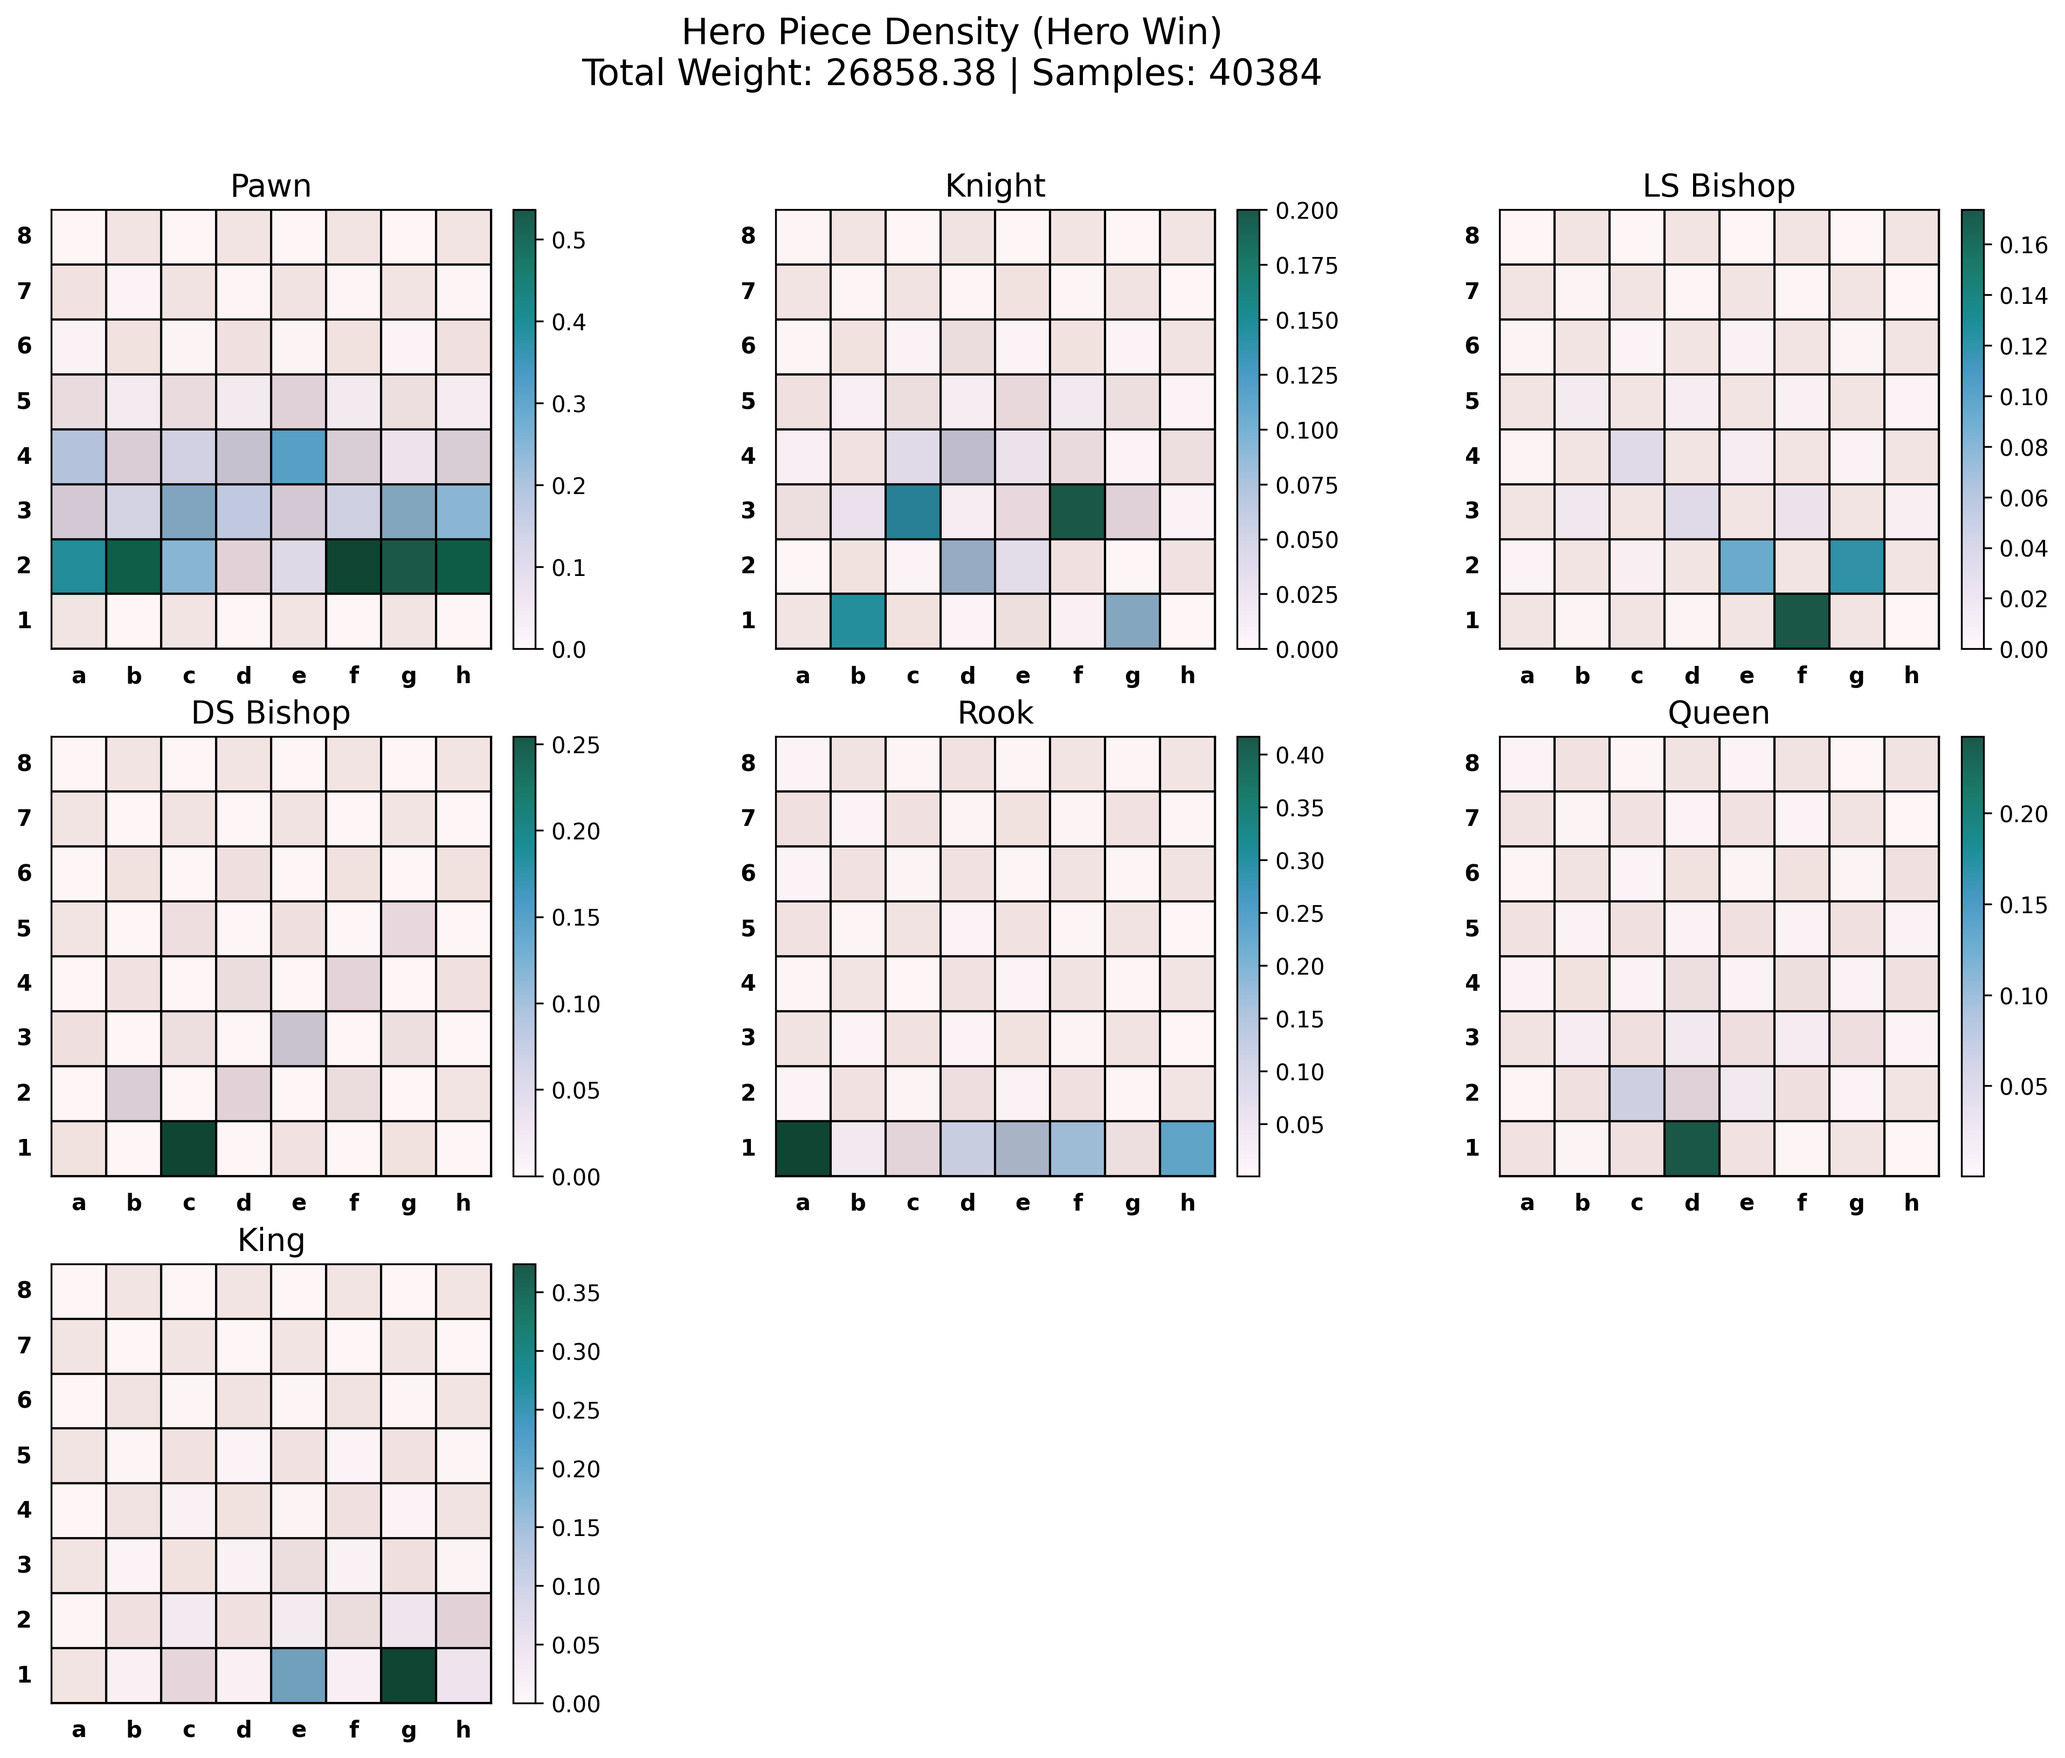
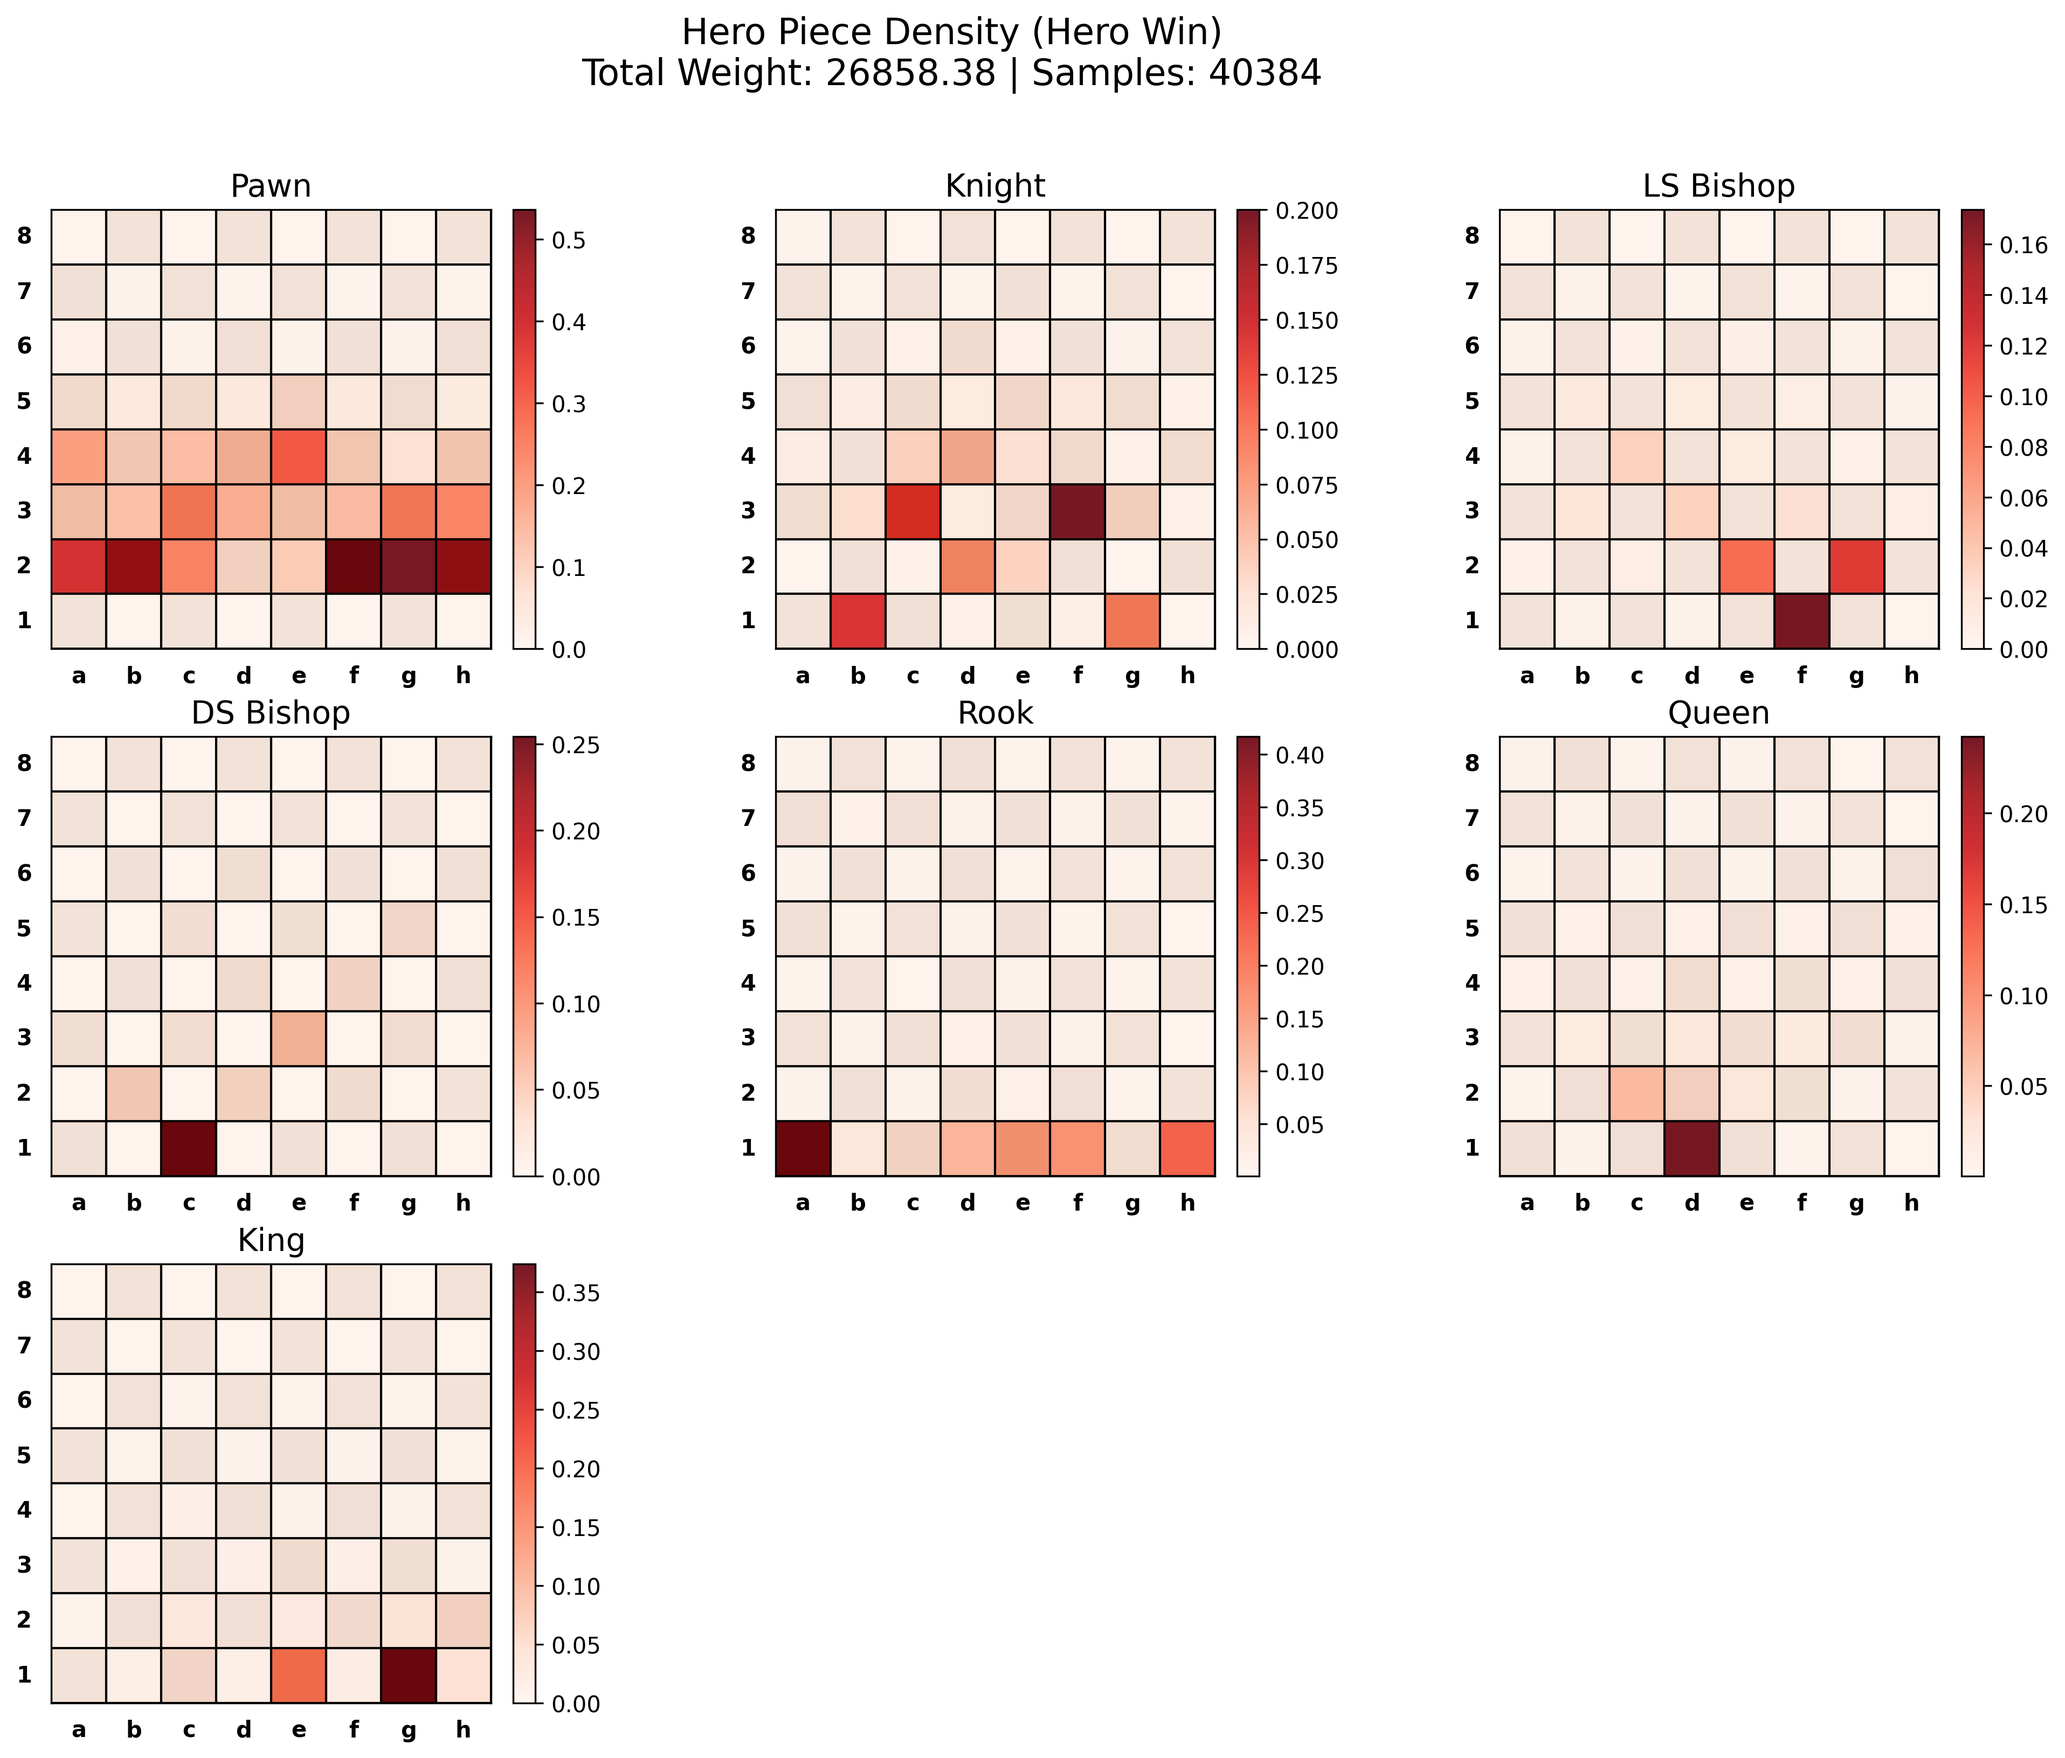
created standard eda and figures.

diff --git a/eda/label_study.py b/eda/label_study.py
@@ -1,0 +1,128 @@
+import sys
+import os
+sys.path.append(os.path.abspath(os.path.join(os.path.dirname(__file__), '..')))
+
+import numpy as np
+import matplotlib.pyplot as plt
+import collections
+import seaborn as sns
+import pandas as pd
+import core.chess_database as chess_database
+
+# Standard chess material values
+PIECE_VALUES = {
+	"Pawn": 1, "Knight": 3, "Bishop": 3, "Rook": 5, "Queen": 9
+}
+
+RESULT_CATEGORIES = {0: "Hero Win", 1: "Draw", 2: "Villain Win"}
+PIECE_NAMES = ["Pawn", "Knight", "LS Bishop", "DS Bishop", "Rook", "Queen", "King"]
+COLORS = {0: "#5393ED", 1: "#999999", 2: "#e3242b"}
+
+def analyze_chess_data(zst_file, sample_size=100000):
+	"""Analyzes dataset in one pass, computing class distribution, material counts, and material imbalance."""
+
+	# Initialize tracking structures
+	label_counts = collections.Counter()
+	total_importance = collections.defaultdict(float)
+	material_stats = {0: np.zeros(7), 1: np.zeros(7), 2: np.zeros(7)}
+	total_weights = {0: 0, 1: 0, 2: 0}
+	imbalance_data = []
+
+	# Process data in a single pass
+	gen = chess_database.pgn_zst_generator(zst_file, batch_size=256)
+	count = 0
+
+	for game_data, labels, importance in gen:
+		for i in range(len(labels)):
+			label = labels[i]
+			weight = importance[i]
+
+			# Class distribution
+			label_counts[label] += 1
+			total_importance[label] += weight
+
+			# Material count per game result
+			material_stats[label] += weight * (np.sum(game_data[i, :, :, :7], axis=(0, 1)))
+			total_weights[label] += weight
+
+			# Material imbalance tracking
+			hero_material = sum(PIECE_VALUES[p] * np.sum(game_data[i, :, :, j]) for j, p in enumerate(PIECE_VALUES))
+			villain_material = sum(PIECE_VALUES[p] * np.sum(game_data[i, :, :, j+9]) for j, p in enumerate(PIECE_VALUES))
+			imbalance_data.append({"Result": RESULT_CATEGORIES[label], "Imbalance": hero_material - villain_material, "Weight": weight})
+
+			count += 1
+
+		if count >= sample_size:
+			break
+
+	# Convert imbalance data to Pandas DataFrame for seaborn
+	imbalance_df = pd.DataFrame(imbalance_data)
+
+	# --- Plot Class Distribution ---
+	total_weight = sum(total_importance.values())
+	plt.figure(figsize=(8, 6))
+	plt.bar(
+		[RESULT_CATEGORIES[k] for k in total_importance.keys()],
+		total_importance.values(),
+		color=[COLORS[k] for k in total_importance.keys()]
+	)
+	plt.ylabel("Weighted Position Count (by Importance)")
+	plt.title("Weighted Game Result Distribution")
+	plt.xticks(rotation=30)
+	plt.grid(axis='y', linestyle='--', alpha=0.7)
+
+	for label, weight in total_importance.items():
+		print(f"{RESULT_CATEGORIES[label]}: {weight:.2f} ({(weight / total_weight) * 100:.2f}%)")
+
+	plt.savefig("figures/standard_eda/weighted_class_distribution.png", dpi=300, bbox_inches="tight")
+	plt.close()
+
+	# --- Plot Material Count ---
+	avg_material = {k: material_stats[k] / max(total_weights[k], 1) for k in material_stats}
+	
+	fig, ax = plt.subplots(figsize=(12, 6))
+	bar_width = 0.3
+	x = np.arange(7)
+
+	for idx, label in enumerate(RESULT_CATEGORIES.keys()):
+		ax.bar(x + idx * bar_width, avg_material[label], width=bar_width, color=COLORS[label], label=RESULT_CATEGORIES[label])
+
+	ax.set_xticks(x + bar_width)
+	ax.set_xticklabels(PIECE_NAMES)
+	ax.set_ylabel("Weighted Average Hero Piece Count")
+	ax.set_title("Weighted Average Hero Piece Count per Game Result")
+	ax.legend()
+	plt.grid(axis="y", linestyle="--", alpha=0.7)
+	plt.savefig("figures/standard_eda/weighted_material_count.png", dpi=300, bbox_inches="tight")
+	plt.close()
+
+	# --- Plot Material Imbalance Histogram ---
+	fig, axes = plt.subplots(3, 1, figsize=(10, 12), sharex=True, sharey=True)
+	fig.suptitle("Material Imbalance Distribution Across Game Results", fontsize=16)
+
+	for idx, (label, result_name) in enumerate(RESULT_CATEGORIES.items()):
+		ax = axes[idx]
+		subset = imbalance_df[imbalance_df["Result"] == result_name]
+		
+		# Plot discrete histogram with integer bins
+		sns.histplot(
+			subset, x="Imbalance", weights="Weight", binwidth=1, discrete=True,
+			color=COLORS[label], stat="density", element="step", ax=ax, kde=True
+		)
+		# Highlight critical values: 0.0
+		for v in [0]:
+			ax.axvline(v, color="black", linestyle="dashed", alpha=0.7, linewidth=1.2)
+
+		ax.set_title(f"{result_name}", fontsize=14)
+		ax.set_xlabel("Material Imbalance (Hero - Villain)")
+		ax.set_ylabel("Density")
+		ax.grid(axis="y", linestyle="--", alpha=0.7)
+		ax.set_xticks(range(int(subset["Imbalance"].min()), int(subset["Imbalance"].max()) + 1, 1))  # Force integer ticks
+
+	plt.tight_layout(rect=[0, 0, 1, 0.96])  # Adjust layout to fit title
+	plt.savefig("figures/standard_eda/weighted_material_imbalance_histogram.png", dpi=300, bbox_inches="tight")
+	plt.close()
+
+if __name__ == "__main__":
+	zst_file = "data/LumbrasGigaBase 2024.pgn.zst"
+	analyze_chess_data(zst_file, sample_size=int(1e6))

diff --git a/eda/density_plotting.py b/eda/density_plotting.py
@@ -127,7 +127,7 @@ def plot_piece_density_by_label(zst_file, sample_size=100000):
 		for i, ax in enumerate(axes.flat):
 			if i < 7:
 				chess_env.draw_chessboard(ax)
-				im = ax.imshow(avg_hero[:, :, i], cmap="PuBuGn", interpolation="nearest", alpha=0.9, extent=[0, 8, 0, 8])
+				im = ax.imshow(avg_hero[:, :, i], cmap="Reds", interpolation="nearest", alpha=0.9, extent=[0, 8, 0, 8])
 				ax.set_title(f"{PIECE_NAMES[i]}", fontsize=14)
 				fig.colorbar(im, ax=ax, fraction=0.046, pad=0.04)
 			else:
@@ -144,7 +144,7 @@ def plot_piece_density_by_label(zst_file, sample_size=100000):
 		for i, ax in enumerate(axes.flat):
 			if i < 7:
 				chess_env.draw_chessboard(ax)
-				im = ax.imshow(avg_villain[:, :, i], cmap="PuBuGn", interpolation="nearest", alpha=0.9, extent=[0, 8, 0, 8])
+				im = ax.imshow(avg_villain[:, :, i], cmap="Reds", interpolation="nearest", alpha=0.9, extent=[0, 8, 0, 8])
 				ax.set_title(f"{PIECE_NAMES[i]}", fontsize=14)
 				fig.colorbar(im, ax=ax, fraction=0.046, pad=0.04)
 			else:

diff --git a/eda/importance_animation.py b/eda/importance_animation.py
@@ -71,7 +71,7 @@ def plot_piece_density_by_importance(zst_file, sample_size=50000, num_frames=20)
 def save_animation(hero_frames, villain_frames, importance_thresholds):
 	"""Saves animations for each piece's density evolution."""
 	os.makedirs("figures/animations", exist_ok=True)
-	cmap = "magma"  # Updated colormap for better contrast
+	cmap = "Reds"  # Updated colormap for better contrast
 
 	for piece in range(7):
 		hero_images = []
@@ -115,4 +115,4 @@ def save_animation(hero_frames, villain_frames, importance_thresholds):
 
 if __name__ == "__main__":
 	zst_file = "data\LumbrasGigaBase 2024.pgn.zst"
-	plot_piece_density_by_importance(zst_file, sample_size=50000, num_frames=20)
+	plot_piece_density_by_importance(zst_file, sample_size=int(1e5), num_frames=20)

diff --git a/eda/pieces_animation.py b/eda/pieces_animation.py
@@ -64,7 +64,7 @@ def plot_piece_density_by_piece_count(zst_file, sample_size=50000):
 def save_animation_pieces(hero_frames, villain_frames, piece_counts):
 	"""Saves animations for each piece's density evolution."""
 	os.makedirs("figures/animations/", exist_ok=True)
-	cmap = "magma"
+	cmap = "Reds"
 
 	for piece in range(7):
 		hero_images = []
@@ -108,4 +108,4 @@ def save_animation_pieces(hero_frames, villain_frames, piece_counts):
 
 if __name__ == "__main__":
 	zst_file = "data\LumbrasGigaBase 2024.pgn.zst"
-	plot_piece_density_by_piece_count(zst_file, sample_size=50000)
+	plot_piece_density_by_piece_count(zst_file, sample_size=int(1e5))
